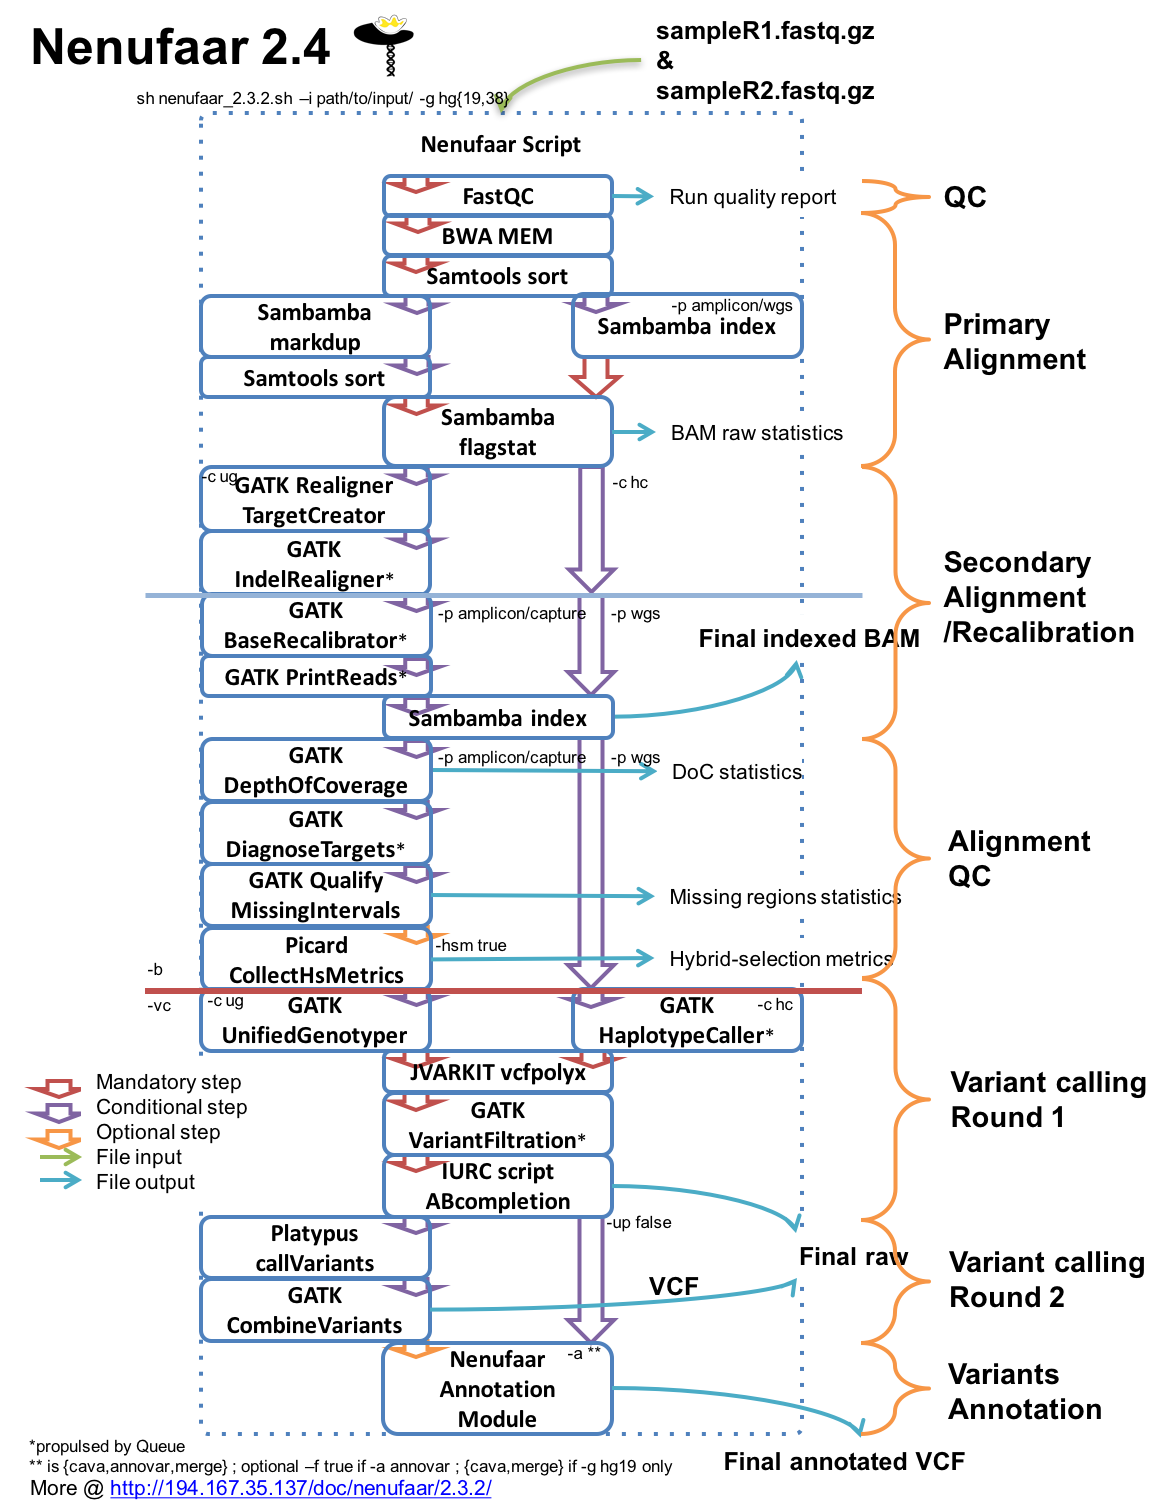
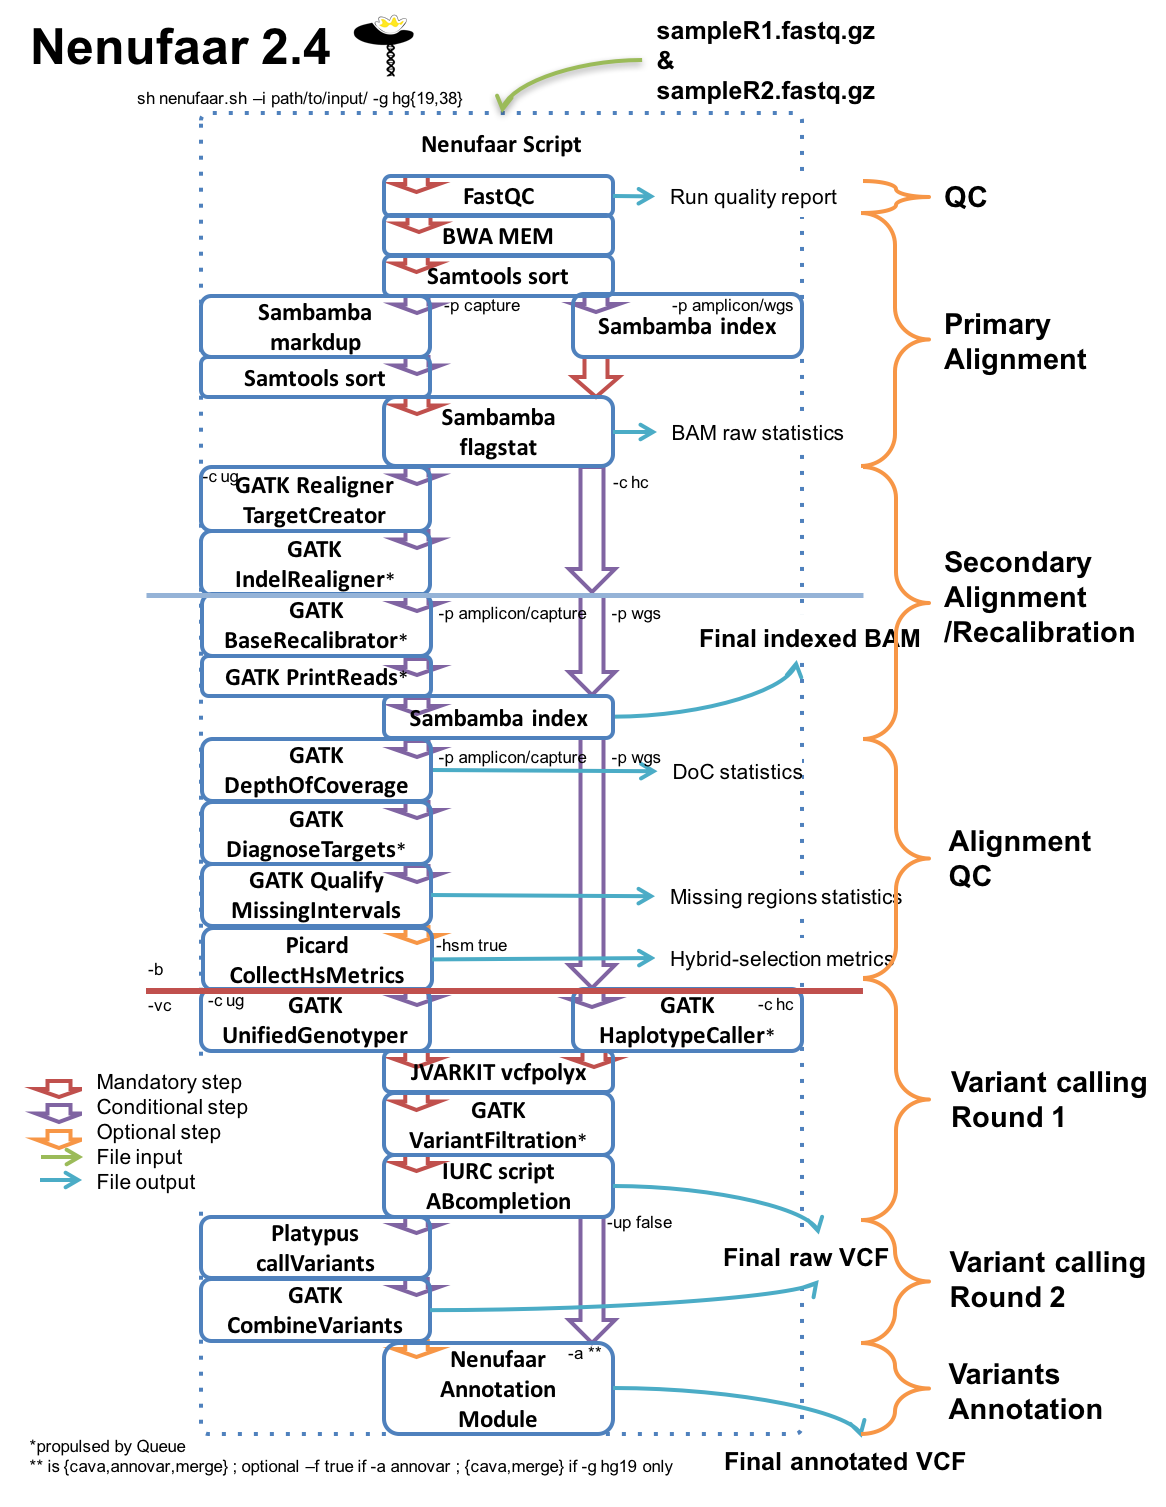
keep mobidic's version up to date (#1)
* added -cf path/to/conf/file option for singularity containers

* fixed typo with tests

* modified scala script to pass scattercount as an arg

* modified figure

* added folder

* new list

diff --git a/README.md b/README.md
@@ -130,7 +130,9 @@ The fastQ files must be named as above, e.g. SU2332.R1.fastq.gz
 
 *	-cu, --clean_up	Boolean true, false: set to false to keep intermediate files (for dev purpose)
 
-*	-log,  --log-file	Path to log file
+*	-log, --log-file	Path to log file
+
+*	-cf, --config-file	Provide a config file path, e.g. for containers
 
 ## Tests
 
